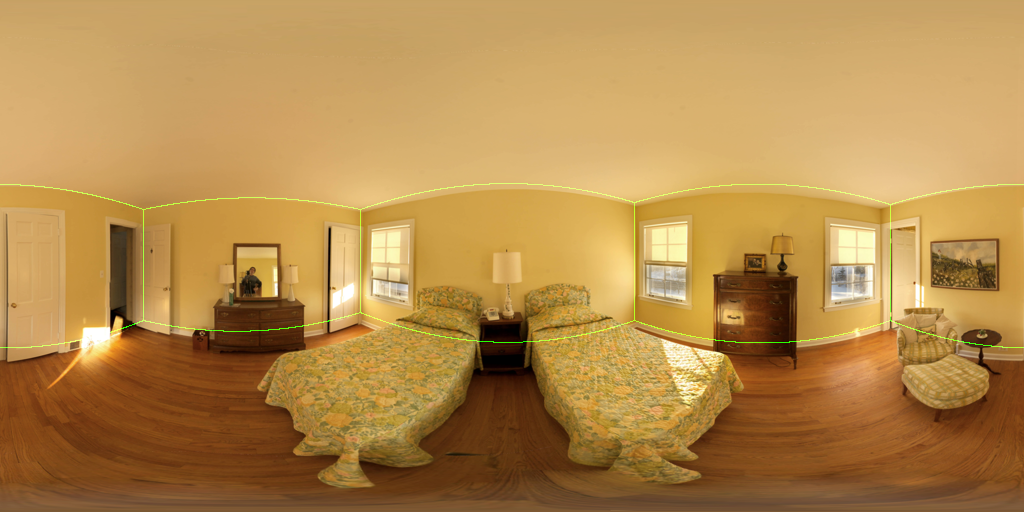
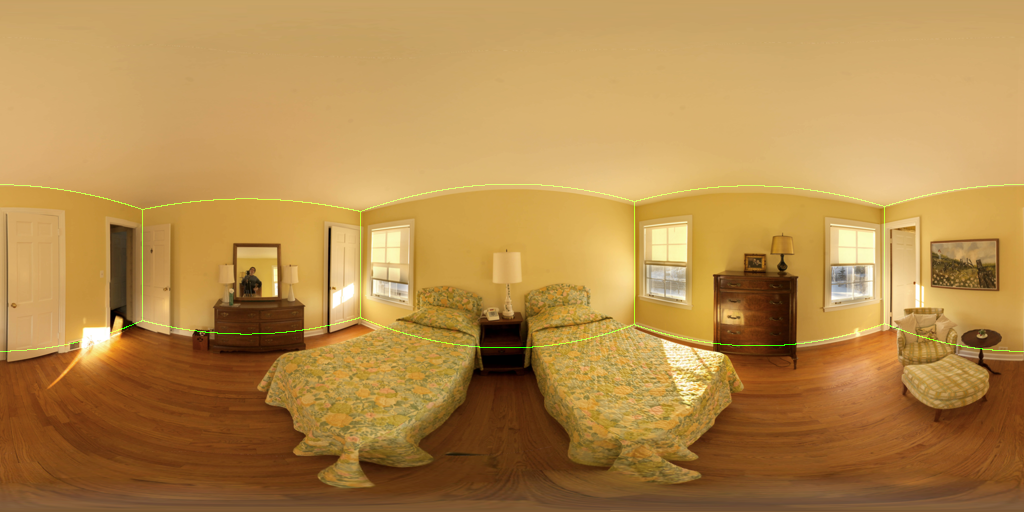
Fix demo output mismatched

diff --git a/README.md b/README.md
@@ -35,7 +35,7 @@ Currently only joint bounday branch and corner branch are implemented. Pre/post-
 ## Visualization
 See `python visual.py -h` for detailed arguments explaination. Basically, `--path_prefix` give the prefix path to 3 `state_dict` to load, `--img_glob` and `--line_glob` tell the input channels of rgb and line (remember to add quotes if you use wildcards like `*` in your glob path). Finally `--output_dir` specify the directory to dump the results.  
 Execute below command to get the same output as demos.  
-```python visual.py --img_glob "data/test/img/pano_aaccxxpwmsdgvj.png" --line_glob "data/test/line/pano_aaccxxpwmsdgvj.png" --output_dir assert/```
+```python visual.py --flip --rotate 0.25 0.5 0.75 --img_glob "data/test/img/pano_aaccxxpwmsdgvj.png" --line_glob "data/test/line/pano_aaccxxpwmsdgvj.png" --output_dir assert/```
 - output boudary probability map, suffix with `_edg.png`
   ![demo edge](assert/pano_aaccxxpwmsdgvj_edg.png)
 - output corner probability map, suffix with `_cor.png`
